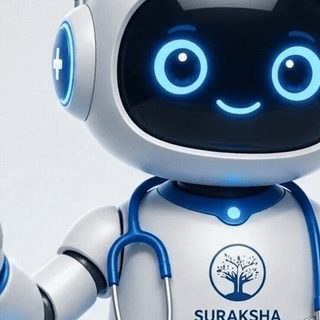
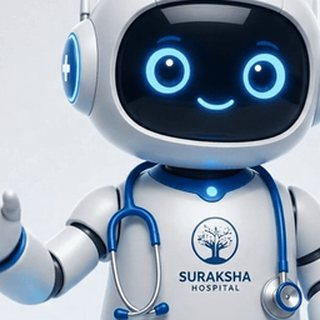
Chatbot launcher: floating mascot instead of a labelled pill
Drops the 'Ask a question' text and the button box. The mascot now sits
on a white halo (keeps the white robot legible on light backgrounds) and
bobs gently via a float keyframe. Same size on mobile and desktop, so it
no longer collides with the testimonial carousel controls.

diff --git a/src/components/chatbot/chat-widget.tsx b/src/components/chatbot/chat-widget.tsx
@@ -126,38 +126,40 @@ export function ChatWidget() {
         onClick={toggle}
         aria-expanded={open}
         aria-controls="chat-panel"
-        aria-label={open ? "Close the assistant" : "Open the assistant"}
+        aria-label={open ? "Close the assistant" : "Chat with the clinic assistant"}
         className={cn(
-          "fixed z-50 right-4 bottom-20 lg:bottom-6 flex items-center gap-2.5",
-          "rounded-full shadow-[var(--elev-3)] bg-accent text-accent-foreground",
-          "transition-transform duration-[var(--dur-base)] hover:scale-105 active:scale-95",
-          // Circle on mobile: the labelled pill is wide enough to sit on top
-          // of page content (it covered the testimonial carousel arrows).
+          "fixed z-50 right-4 bottom-20 lg:bottom-6 grid place-items-center rounded-full",
+          "transition-transform duration-[var(--dur-base)] hover:scale-110 active:scale-95",
+          "focus-visible:outline-3 focus-visible:outline-offset-4",
           open
-            ? "size-14 justify-center"
-            : "size-14 justify-center sm:size-auto sm:h-14 sm:pl-4 sm:pr-5",
-          !open && !reduceMotion && "animate-pulse-slow"
+            ? "size-14 bg-primary text-primary-foreground shadow-[var(--elev-3)]"
+            : "size-16 sm:size-[4.5rem]",
+          // The mascot floats on its own rather than sitting in a button box.
+          !open && !reduceMotion && "animate-float"
         )}
       >
         {open ? (
           <X className="size-6" />
         ) : (
-          <>
-            {/* Static frame of the clinic's mascot, not the video: this button
-                is on every page, and a 2.4 MB autoplaying video here would
-                undo the LCP work. The animation plays in the panel instead. */}
+          <span className="relative grid size-full place-items-center">
+            {/* Halo sits behind the mascot so the white robot stays legible
+                against light page backgrounds. */}
+            <span
+              className="absolute inset-0 rounded-full bg-white shadow-[var(--elev-3)] ring-1 ring-accent/25"
+              aria-hidden
+            />
+            {/* Still frame, not the video: this launcher is on every page and
+                a 2.4 MB autoplaying video would undo the LCP work. The
+                animation plays in the panel header once opened. */}
             <Image
               src="/brand/chatbot-avatar.png"
               alt=""
-              width={160}
-              height={160}
-              className="size-10 shrink-0 rounded-full object-cover"
+              width={256}
+              height={256}
+              className="relative size-full rounded-full object-cover"
               aria-hidden
             />
-            <span className="hidden sm:inline font-semibold text-sm whitespace-nowrap">
-              Ask a question
-            </span>
-          </>
+          </span>
         )}
       </button>
 

diff --git a/src/app/globals.css b/src/app/globals.css
@@ -290,19 +290,17 @@
     radial-gradient(ellipse 70% 50% at 100% 10%, oklch(0.3397 0.078 248.5 / 32%) 0%, transparent 60%);
 }
 
-/* Chatbot launcher — a slow breathing ring that draws the eye without
-   demanding attention. Suppressed entirely under reduced-motion below. */
-@keyframes pulse-slow {
-  0%, 100% {
-    box-shadow: var(--elev-3), 0 0 0 0 oklch(0.5198 0.0936 223.13 / 55%);
-  }
-  50% {
-    box-shadow: var(--elev-3), 0 0 0 12px oklch(0.5198 0.0936 223.13 / 0%);
-  }
+/* Chatbot launcher — the mascot bobs gently as if hovering. Slow and small
+   on purpose: it should catch the eye in peripheral vision without pulling
+   attention away from the emergency call button. Suppressed under
+   reduced-motion by the block at the end of this file. */
+@keyframes float {
+  0%, 100% { transform: translateY(0); }
+  50%      { transform: translateY(-8px); }
 }
 
-@utility animate-pulse-slow {
-  animation: pulse-slow 2.8s ease-out infinite;
+@utility animate-float {
+  animation: float 3.2s ease-in-out infinite;
 }
 
 /* --------------------------------------------------------------------------
